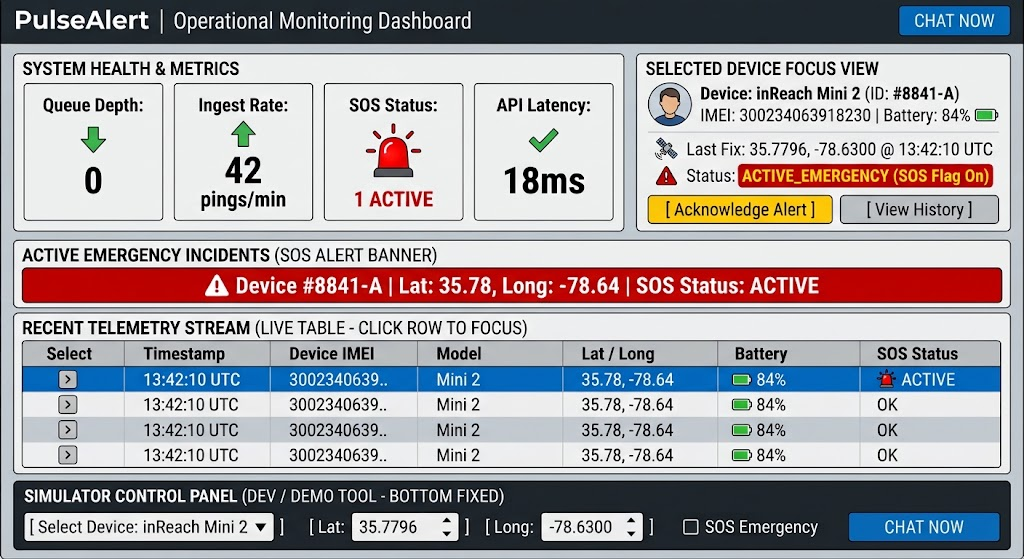
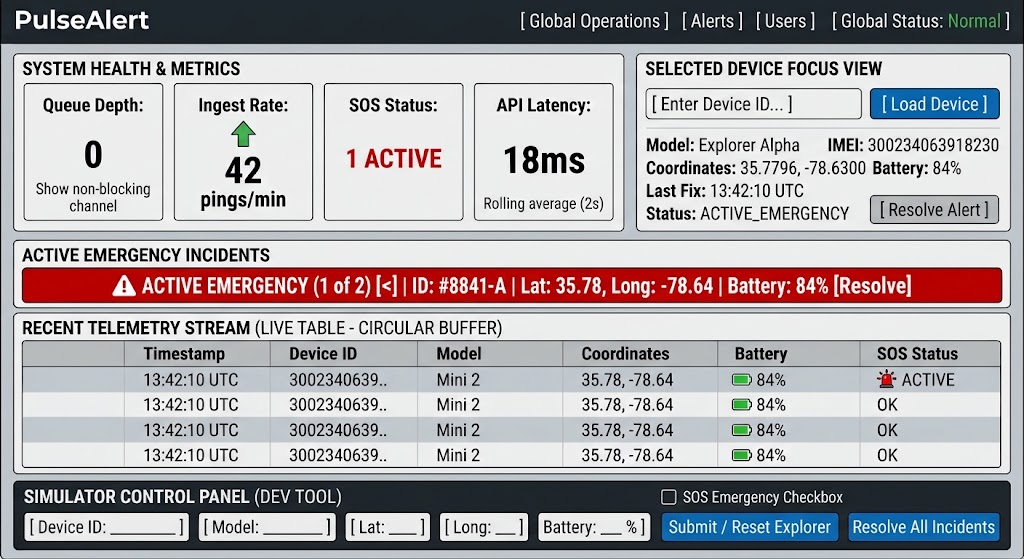
Enhance PLAN.md with detailed database schema and frontend dashboard specifications

diff --git a/docs/PLAN.md b/docs/PLAN.md
@@ -50,23 +50,75 @@ If an Incident is created, the proper entry is added to the database table and t
 Entity Relationship Diagram (ERD)
 ![](images/DatabaseSchema.png)
 [lucid chart link](https://lucid.app/lucidchart/fd844469-7cf5-42d1-a412-6386b9f16418/edit?beaconFlowId=BF915EC9F170A177&invitationId=inv_0cc85b4f-659d-45fd-9046-f98744155457&page=0_0#)
-* GUIDs will be replaced with VARCHAR to allow for simple, manual, data entry. 
-* The database will be made in PostgreSQL and managed with Entity Framework Core. 
+* The database will be made in PostgreSQL and managed with Entity Framework Core.
+#### Devices Table
+
+| Column Name | Data Type | Constraints / Attributes | Description |
+| :--- | :--- | :--- | :--- |
+| **DeviceId** | String | Primary Key, Non-null, Max length: 36 | Unique internal identifier for the device. |
+| **IMEI** | String | Unique Index, Max length: 15 | International Mobile Equipment Identity used for satellite network routing. |
+| **ModelName** | String | Max length: 100 | Hardware model name (e.g., inReach Mini 2). |
+| **FirmwareVersion** | String | Max length: 50 | Active software version on the physical unit. |
+| **Status** | String | Max length: 20 | Operating status (Active, Deactivated). |
+| **CreatedAtUtc** | DateTime | Non-null | UTC timestamp when the device was registered. |
+
+#### TelemetryPings Table
+
+| Column Name | Data Type | Constraints / Attributes | Description |
+| :--- | :--- | :--- | :--- |
+| **PingId** | Guid | Primary Key, Non-null | Unique identifier for the telemetry entry. |
+| **DeviceId** | Guid | Foreign Key (Devices.DeviceId) | Reference to the associated hardware device. |
+| **Latitude** | Decimal | Precision (9,6) | Latitude geographic coordinate (-90.000000 to 90.000000). |
+| **Longitude** | Decimal | Precision (9,6) | Longitude geographic coordinate (-180.000000 to 180.000000). |
+| **AltitudeMeters** | Double | Nullable | Elevation above sea level in meters. |
+| **BatteryPercentage** | Integer | Range (0–100) | Remaining battery percentage reported by the device. |
+| **IsSosActive** | Boolean | Non-null | Flag indicating whether the ping was sent during an active emergency. |
+| **RecordedAtUtc** | DateTime | Non-null | UTC timestamp generated by the device's GPS hardware. |
+| **ReceivedAtUtc** | DateTime | Non-null | UTC timestamp recorded when the server processed the request. |
+
+#### EmergencyIncidents Table
+
+| Column Name | Data Type | Constraints / Attributes | Description |
+| :--- | :--- | :--- | :--- |
+| **IncidentId** | Guid | Primary Key, Non-null | Unique identifier for the emergency ticket. |
+| **DeviceId** | Guid | Foreign Key (Devices.DeviceId) | Hardware unit associated with the emergency alert. |
+| **TriggerPingId** | Guid | Foreign Key (TelemetryPings.PingId) | Telemetry ping that originally initiated the alert. |
+| **Status** | String | Max length: 30 | Lifecycle state (Active, Resolved). |
+| **Notes** | String | Text / Unlimited | Operator logs and dispatch notes recorded during response coordination. |
+| **OpenedAtUtc** | DateTime | Non-null | UTC timestamp when the emergency was registered. |
+| **ResolvedAtUtc** | DateTime | Nullable | UTC timestamp when the incident was marked resolved. | 
 ### Frontend Dashboard
 Entity Relationship Diagram (ERD)
 ![](images/FrontendWireframe.jpg)
 [lucid chart link](https://lucid.app/lucidchart/fd844469-7cf5-42d1-a412-6386b9f16418/edit?beaconFlowId=BF915EC9F170A177&invitationId=inv_0cc85b4f-659d-45fd-9046-f98744155457&page=0_0#)
 * The frontend is written in React and uses TypeScript for type safety. 
 * State management and data fetching will be done with React Query. 
-Incidents are only resolved via a button on the dashboard. 
+#### Header & Branding Bar
+The top bar running across the dashboard. Establishes application branding (PulseAlert) and displays global navigation or quick status indicators.
 
-#### Row 1: Header
-Nothing special planned here. 
-#### Row 2, Left: System Health and Metrics
-#### Row 2, Right: Selected Device Focus
-#### Row 3: Emergency Incidents
-#### Row 4: Recent Telemetry Live Stream
-#### Row 5: Simulator Control Panel
+#### System Health & Metrics Panel (Top-Left)
+Displays metrics of real-time system performance. It includes: 
+* Queue Depth: Shows how many incoming pings are currently waiting in the .NET background queue.
+* Ingest Rate: Measures the throughput (e.g., pings per minute) being processed by the backend.
+* SOS Status: Shows the current total count of active emergency alerts requiring operator intervention.
+* API Latency: Displays the round-trip response time (in milliseconds) of HTTP requests to track backend responsiveness.
+
+#### Selected Device Focus View (Top-Right)
+A dedicated inspector panel for deep telemetry inspection of a specific device. At the top is a text box and button for setting the panel to display a specific Device ID. Alternatively the panel can be set by clicking any row of the Telemetry Stream or the Active Emergency Incidents Banner. The panel shows model, IMEI number, exact coordinates, last signal timestamp, battery life, and current status. It also includes a button to Resolve an active alert, if applicable.
+
+If a map is added, it will be here. 
+
+#### Active Emergency Incidents Banner
+A high-visibility alert bar highlighted in red, displaying data of an active Emergency Incident. It displays critical high-level information (Device ID, latest coordinates, battery). It also has a button to Resolve the incident. At the top it has navigation arrows to view other active emergencies. Clicking the bar loads the Device of the current emergency into the Focus View. 
+
+#### Recent Telemetry Stream (Live Table)
+A real-time table displaying incoming telemetry fixes. Lists recent GPS updates (Timestamp, Device ID, Model, Coordinates, Battery %, and SOS Status). To keep the browser DOM performant under high-frequency data streams, it operates as a circular buffer (showing only the top ~20–25 most recent pings).
+
+#### Simulator Control Panel
+A developer/demo tool to allow for testing the life cycle of a single Explorer/Device. Operators can input a Device ID, Device Model, latitude/longitude coordinates, battery %, and an SOS emergency checkbox and then click a button. This creates a new Explorer or resets an existing Explorer, if the Device ID has already been used. The Explorer acts normally; however, if the SOS emergency checkbox has been checked, they will soon trigger an SOS emergency. 
+
+This panel also includes a "Resolve All Incidents" button, which resolves all current emergency incidents. 
+
 ### DevOps & Cloud Infrastructure
 * Terraform will be used to provision cloud resources.
 * Docker will be used to containerize the .NET backend and web server for local development and deployment. 
